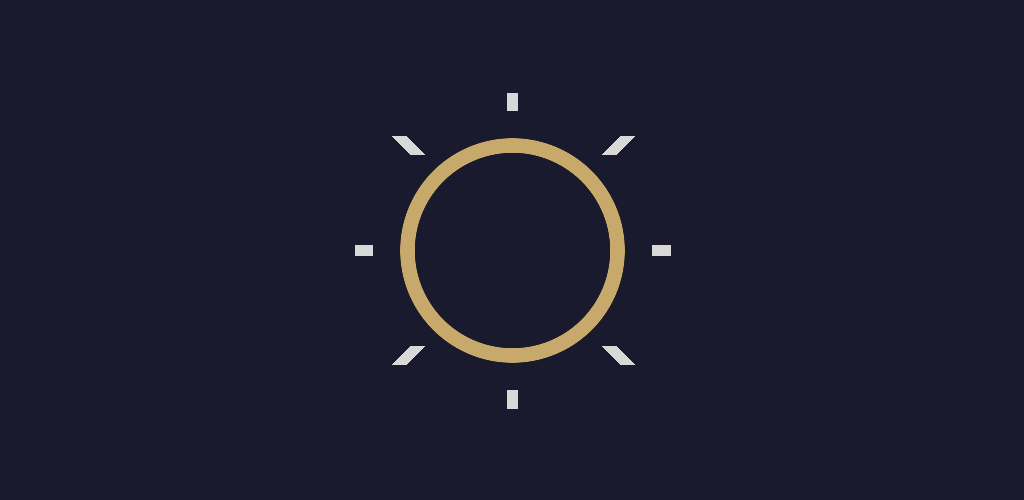
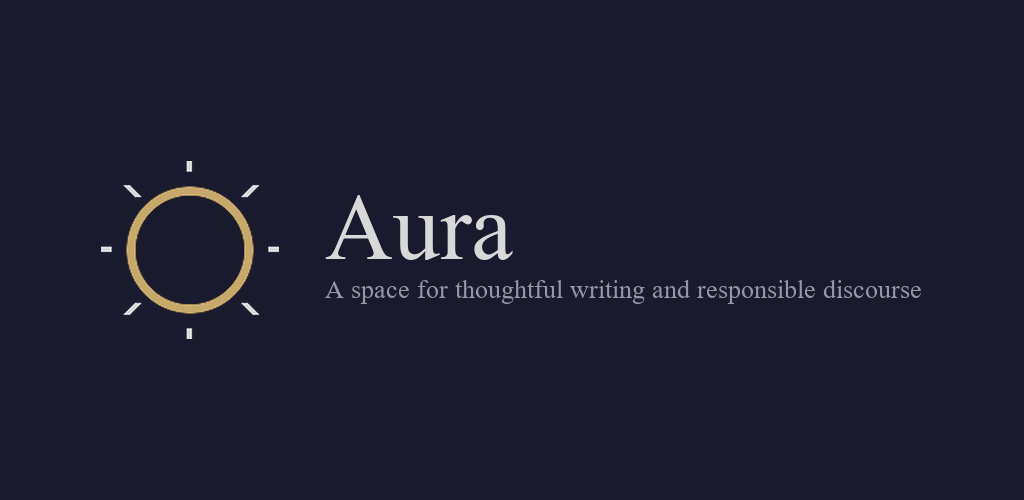
Give the Aura feature graphic its wordmark back
The live Play banner carried the legacy crescent, but it also carried the
product name and the line beneath it. The generated replacement was the mark
alone on navy -- correct identity, no product name -- so swapping one for the
other would have fixed the drift and quietly lost what the banner was for.

The lockup is rebuilt instead: canonical mark, "Aura" in the face the master
specifies, the line, measured and centred as one object with real margins
(ink 101-920 of 1024, centre 510.5/249.5). Play crops this image, so a lockup
that runs to the edges is a lockup that gets clipped.

Composed in Python rather than in the Dart generator because this is the one
asset that must set type and the `image` package has no TrueType rasteriser.
It composes only -- the mark is read from what the Dart generator already
produced from the master. It never redraws identity.

Also fixes the tick check, which measured angles about the CANVAS centre. That
was fine while the poster was mark-only; with a wordmark in the same near-white
ink, the type merged the tick groups and read 2 instead of 8. It now measures
about the gold ring, within a radius derived from the ring itself. Verified it
still fails on the crescent poster.

diff --git a/test/product_identity_conformance_test.dart b/test/product_identity_conformance_test.dart
@@ -57,19 +57,53 @@ void main() {
       (r - target[0]).abs() + (g - target[1]).abs() + (b - target[2]).abs() <
       tolerance;
 
-  /// Counts the distinct angular groups of white pixels around the centre.
+  /// Counts the distinct angular groups of white pixels around the MARK.
   /// The canonical mark has eight; the crescent has one continuous mass.
+  ///
+  /// The centre is taken from the gold ring rather than from the canvas, and
+  /// only pixels near the ring are counted. On an icon those are the same
+  /// thing, but a poster also carries the wordmark in the same near-white ink,
+  /// and measuring angles about the canvas centre lets that type merge the
+  /// tick groups and collapse the count.
   int countRadialTicks(img.Image image) {
-    final cx = image.width / 2, cy = image.height / 2;
+    var gx = 0.0, gy = 0.0, gn = 0;
+    for (var y = 0; y < image.height; y++) {
+      for (var x = 0; x < image.width; x++) {
+        final p = image.getPixel(x, y);
+        if (near(p.r, p.g, p.b, gold)) {
+          gx += x;
+          gy += y;
+          gn++;
+        }
+      }
+    }
+    if (gn == 0) return 0;
+    final cx = gx / gn, cy = gy / gn;
+
+    // Radius of the ring itself, so "near the mark" is derived from the
+    // artwork rather than from a constant that would need tuning per asset.
+    var ringR = 0.0;
+    for (var y = 0; y < image.height; y++) {
+      for (var x = 0; x < image.width; x++) {
+        final p = image.getPixel(x, y);
+        if (near(p.r, p.g, p.b, gold)) {
+          final d = math.sqrt(math.pow(x - cx, 2) + math.pow(y - cy, 2));
+          if (d > ringR) ringR = d;
+        }
+      }
+    }
+    final limit = ringR * 1.8;
+
     final angles = <double>[];
     for (var y = 0; y < image.height; y++) {
       for (var x = 0; x < image.width; x++) {
         final p = image.getPixel(x, y);
-        if (near(p.r, p.g, p.b, white)) {
-          var a = math.atan2(y - cy, x - cx) * 180 / math.pi;
-          if (a < 0) a += 360;
-          angles.add(a);
-        }
+        if (!near(p.r, p.g, p.b, white)) continue;
+        final d = math.sqrt(math.pow(x - cx, 2) + math.pow(y - cy, 2));
+        if (d > limit) continue;
+        var a = math.atan2(y - cy, x - cx) * 180 / math.pi;
+        if (a < 0) a += 360;
+        angles.add(a);
       }
     }
     if (angles.length < 20) return 0;

diff --git a/tool/generate_feature_graphic.py b/tool/generate_feature_graphic.py
@@ -1,0 +1,91 @@
+"""Compose the Play feature graphic: the canonical mark, the wordmark, the line.
+
+WHY THIS IS NOT IN generate_store_assets.dart
+---------------------------------------------
+The Dart generator owns every icon, and it draws the mark geometrically -- ring,
+ticks, ground -- which needs no font. The feature graphic is the one asset that
+must set TYPE, and the `image` package has no TrueType rasteriser. Rather than
+approximate the wordmark with a bitmap font, the poster is composed here, where
+the real face the master specifies (Times New Roman) can actually be used.
+
+The identity still comes from one place: the mark is read from the generated
+`assets/store/android/adaptive_foreground.png`, which the Dart generator wrote
+from `assets/brand/AURA_logo_master.svg`. This file composes; it never redraws
+the mark. That is the whole lesson of the Orchestrate drift -- a generator that
+invents identity is the bug.
+
+The poster this replaces carried the legacy crescent AND the wordmark. Dropping
+to a bare ring would have fixed the identity and lost the product name, so the
+lockup is rebuilt rather than removed.
+"""
+from __future__ import annotations
+
+import pathlib
+
+from PIL import Image, ImageDraw, ImageFont
+
+ROOT = pathlib.Path(__file__).resolve().parent.parent
+MARK = ROOT / 'assets/store/android/adaptive_foreground.png'
+OUT = ROOT / 'assets/store/android/feature_graphic_1024x500.png'
+
+WIDTH, HEIGHT = 1024, 500
+NAVY = (26, 26, 46)
+INK_LIGHT = (216, 216, 216)
+MUTED = (150, 150, 168)
+
+WORDMARK = 'Aura'
+TAGLINE = 'A space for thoughtful writing and responsible discourse'
+
+SERIF = 'C:/Windows/Fonts/times.ttf'
+
+
+def mark_image(target_height: int) -> Image.Image:
+    """The canonical mark, cropped to its own ink and scaled."""
+    src = Image.open(MARK).convert('RGBA')
+    bbox = src.split()[-1].getbbox()
+    if bbox is None:
+        raise SystemExit(f'{MARK} carries no mark')
+    mark = src.crop(bbox)
+    scale = target_height / mark.height
+    return mark.resize(
+        (round(mark.width * scale), target_height), Image.LANCZOS)
+
+
+def main() -> None:
+    canvas = Image.new('RGB', (WIDTH, HEIGHT), NAVY)
+    draw = ImageDraw.Draw(canvas)
+
+    mark = mark_image(178)
+    title_font = ImageFont.truetype(SERIF, 94)
+    tag_font = ImageFont.truetype(SERIF, 26)
+
+    # Measure everything before placing anything, so the lockup is centred as
+    # one object rather than positioned by eye.
+    t_box = draw.textbbox((0, 0), WORDMARK, font=title_font)
+    g_box = draw.textbbox((0, 0), TAGLINE, font=tag_font)
+    t_w, t_h = t_box[2] - t_box[0], t_box[3] - t_box[1]
+    g_w, g_h = g_box[2] - g_box[0], g_box[3] - g_box[1]
+
+    gap = 46          # between mark and text
+    lead = 20         # between wordmark and tagline
+    text_w = max(t_w, g_w)
+    text_h = t_h + lead + g_h
+
+    lockup_w = mark.width + gap + text_w
+    left = (WIDTH - lockup_w) // 2
+
+    canvas.paste(mark, (left, (HEIGHT - mark.height) // 2), mark)
+
+    text_left = left + mark.width + gap
+    text_top = (HEIGHT - text_h) // 2
+    draw.text((text_left - t_box[0], text_top - t_box[1]),
+              WORDMARK, font=title_font, fill=INK_LIGHT)
+    draw.text((text_left - g_box[0], text_top + t_h + lead - g_box[1]),
+              TAGLINE, font=tag_font, fill=MUTED)
+
+    canvas.save(OUT)
+    print(f'wrote {OUT.relative_to(ROOT)}  {canvas.size}')
+
+
+if __name__ == '__main__':
+    main()
